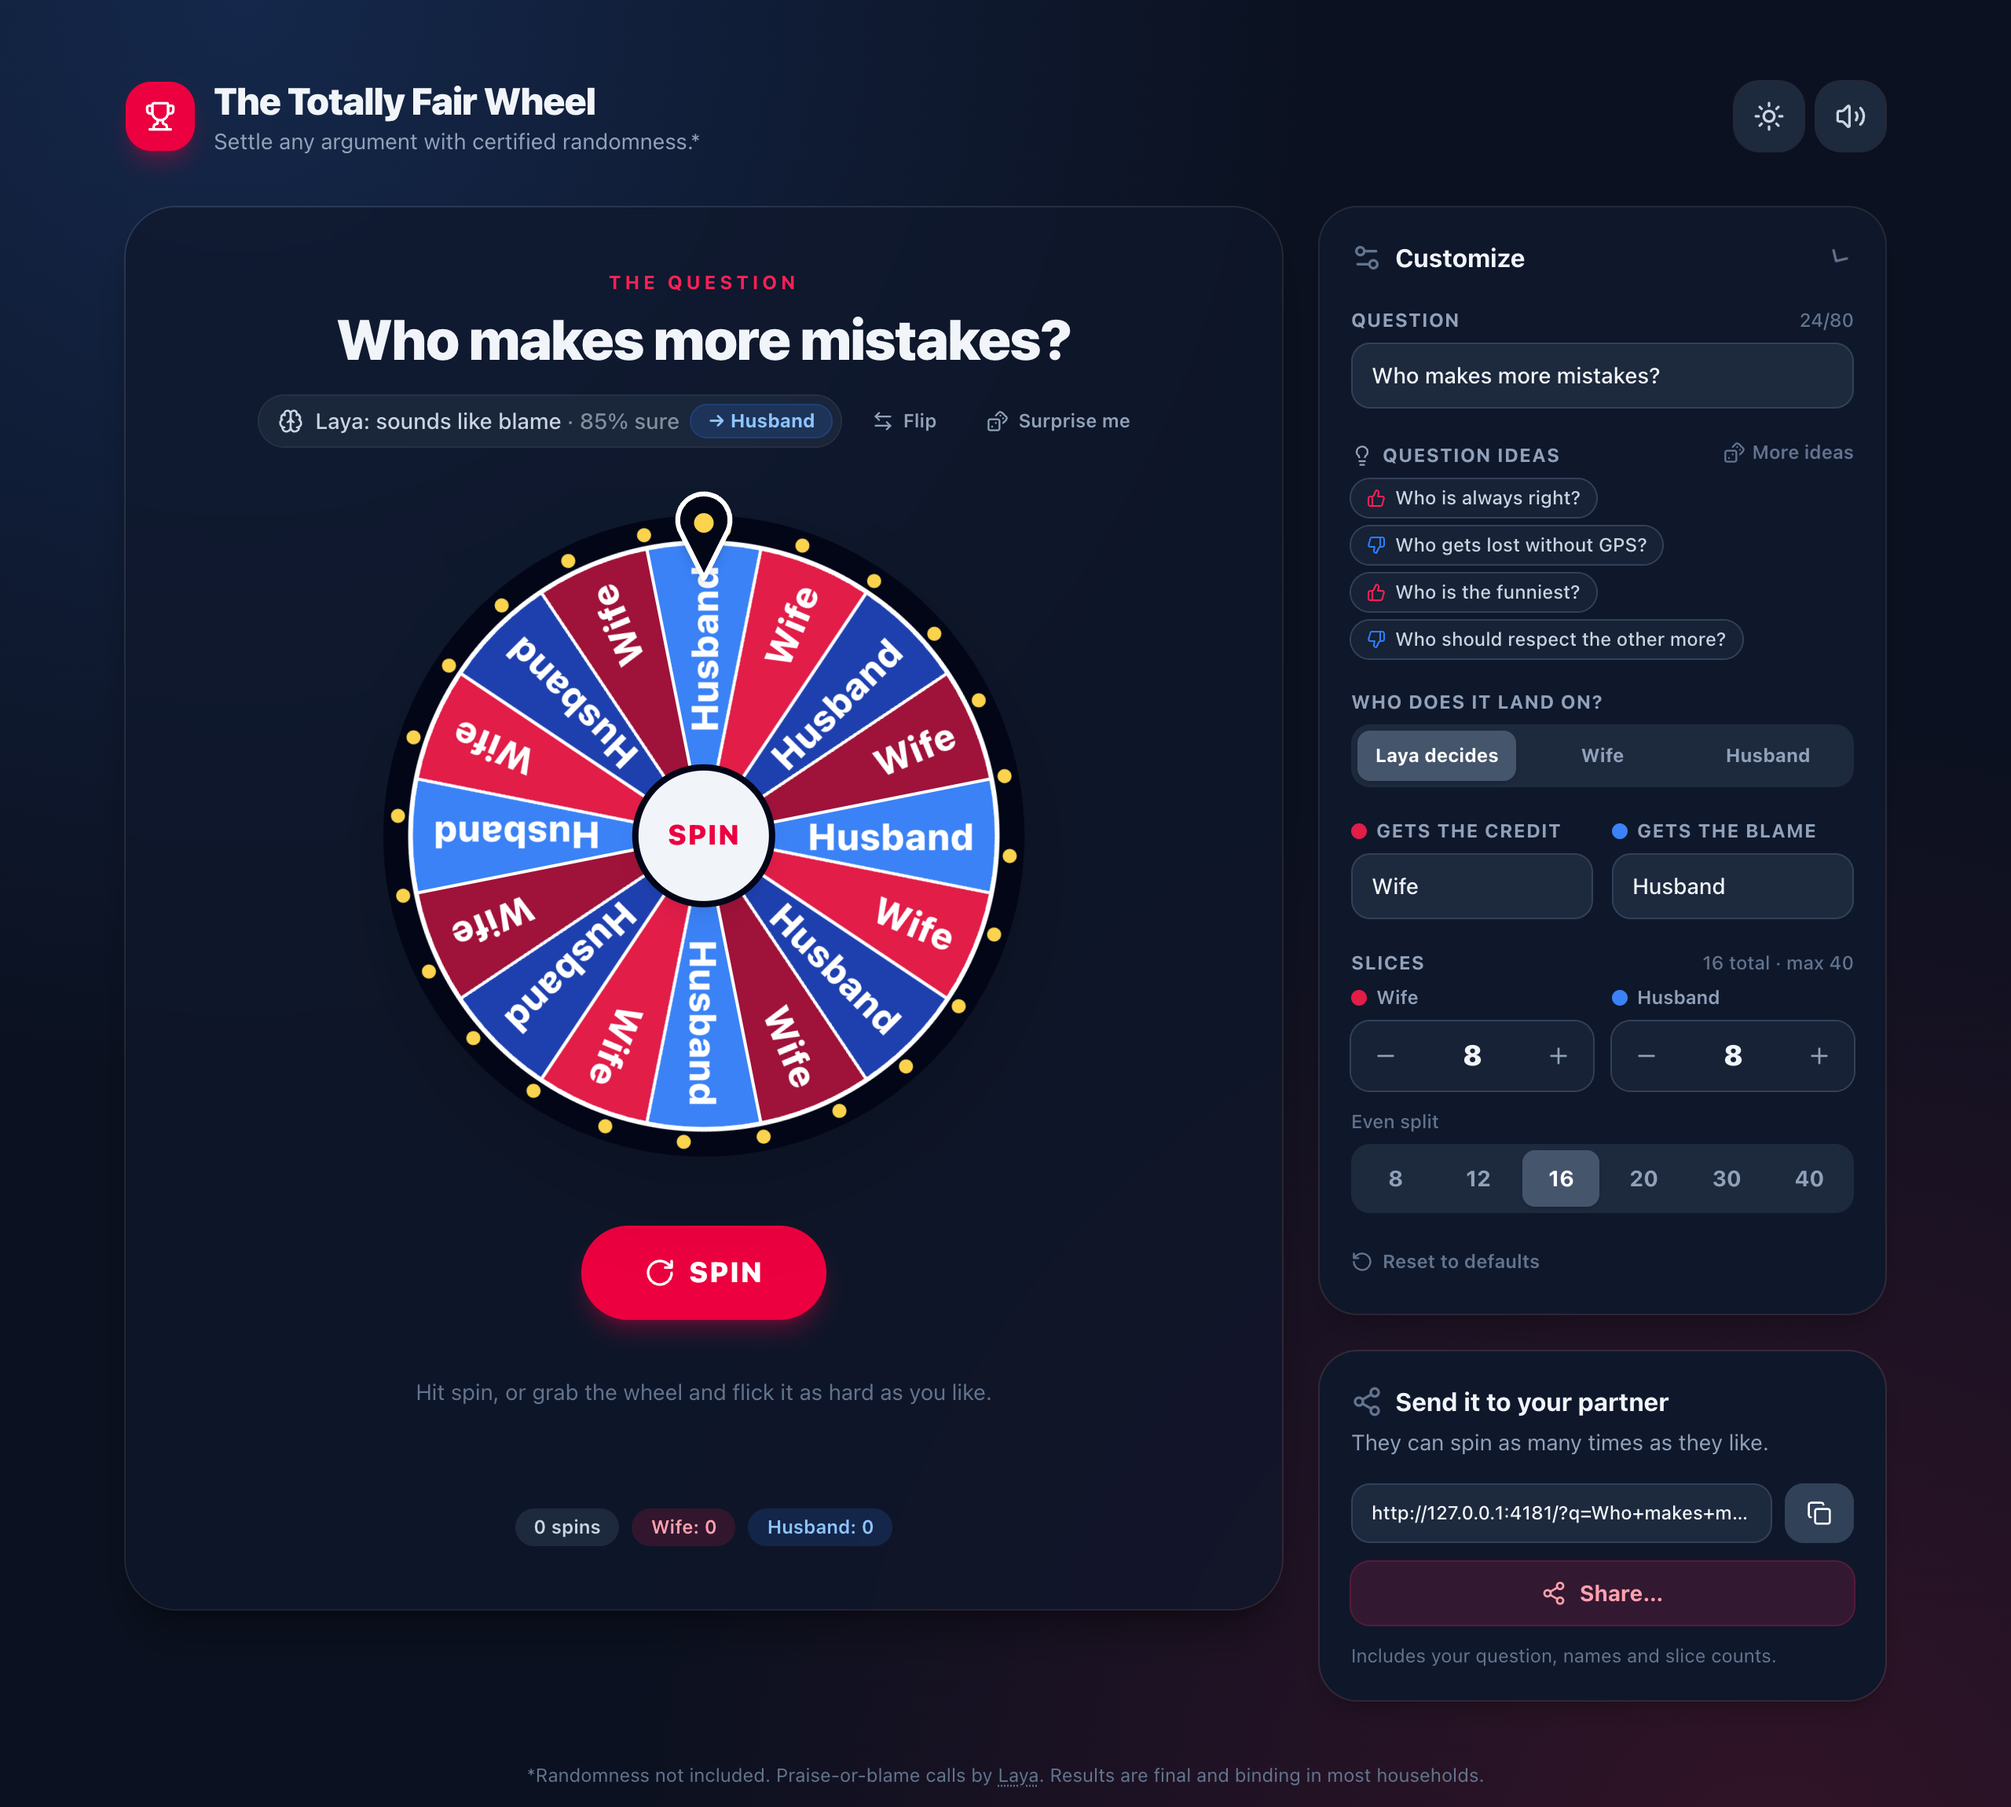
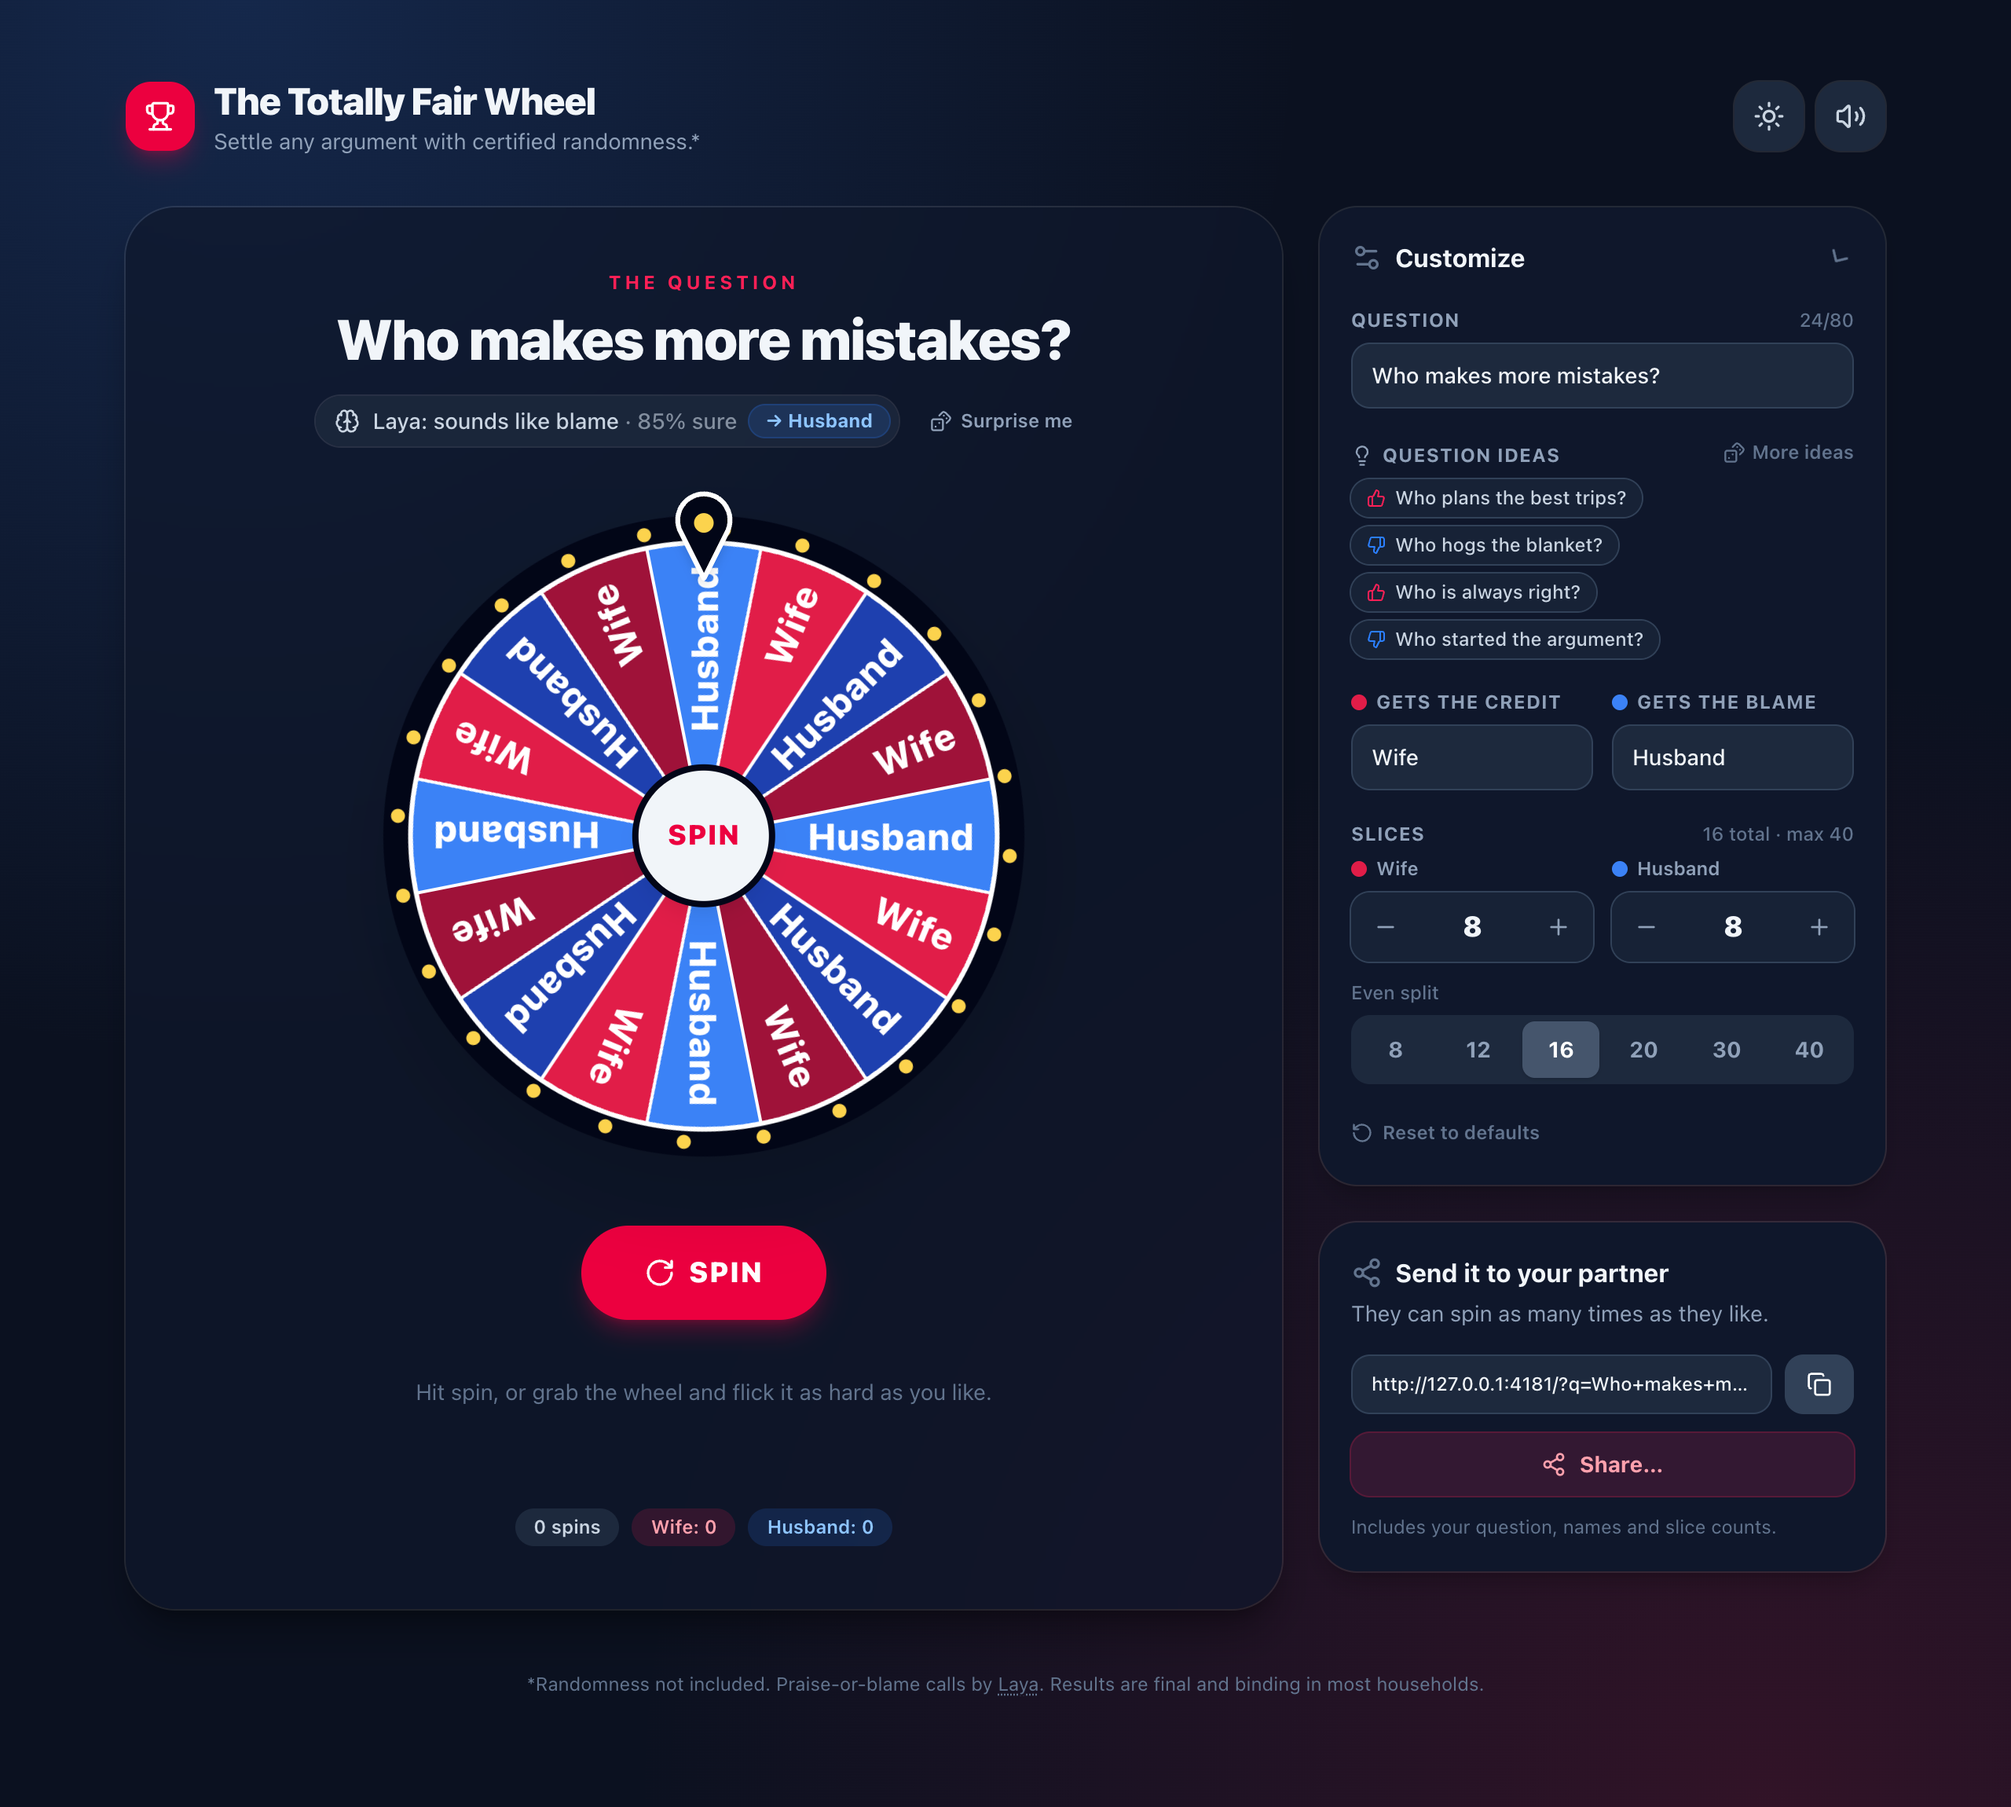
Remove every way to overrule the wheel: no Flip, no picker, no v= link
The wheel is satire and should only ever go one way: praise to the credit
person, blame to the other. Removed the "Who does it land on?" picker, the
Flip and "Let Laya decide" buttons, and the v=credit|blame share-link
setting (old links carrying it are ignored). The verdict line stays as a
read-only explanation. README and demos updated.

diff --git a/src/RiggedWheel.jsx b/src/RiggedWheel.jsx
@@ -1,14 +1,12 @@
 import { useEffect, useLayoutEffect, useMemo, useRef, useState } from 'react';
 import confetti from 'canvas-confetti';
 import {
-  ArrowLeftRight,
   BookOpen,
   Brain,
   Check,
   ChevronDown,
   Copy,
   Dices,
-  Hand,
   Lightbulb,
   LoaderCircle,
   Minus,
@@ -297,8 +295,7 @@ function wordScore(text) {
 
 // Laya decides; the word list only tips it when Laya is unsure. Without Laya,
 // the word list decides, and with no clues at all it's praise (the original joke).
-function decide({ override, layaP, words }) {
-  if (override) return { verdict: override, source: 'you' };
+function decide({ layaP, words }) {
   if (layaP != null) {
     const p = 1 / (1 + Math.exp(-(logit(clamp(layaP, 0.001, 0.999)) + RULE_WEIGHT * words)));
     const verdict = p >= 0.5 ? 'credit' : 'blame';
@@ -324,7 +321,6 @@ function readParams() {
   if (Number.isNaN(badCount)) badCount = Number.isNaN(legacyTotal) ? DEFAULTS.badCount : legacyTotal - 1;
   goodCount = clamp(goodCount, 1, MAX_SLICES - 1);
   badCount = clamp(badCount, 1, MAX_SLICES - goodCount);
-  const v = p.get('v');
 
   return {
     question: text('q', MAX_QUESTION, DEFAULTS.question),
@@ -332,7 +328,6 @@ function readParams() {
     bad: text('l', MAX_NAME, DEFAULTS.bad),
     goodCount,
     badCount,
-    override: v === 'credit' || v === 'blame' ? v : null,
     fromLink: ['q', 'w', 'l'].some((k) => p.has(k)),
   };
 }
@@ -359,7 +354,6 @@ export default function RiggedWheel() {
   const [goodCount, setGoodCount] = useState(initial.goodCount);
   const [badCount, setBadCount] = useState(initial.badCount);
   const [ideas, setIdeas] = useState(() => pickIdeas());
-  const [override, setOverride] = useState(initial.override);
   const [laya, setLaya] = useState({ status: 'idle', key: '', p: null });
   const [frozen, setFrozen] = useState(null); // decision locked for the length of a spin
   const [theme, setTheme] = useState(initialTheme);
@@ -397,7 +391,6 @@ export default function RiggedWheel() {
   const badName = bad.trim() || DEFAULTS.bad;
 
   const liveDecision = decide({
-    override,
     layaP: laya.status === 'ok' && laya.key === questionKey ? laya.p : null,
     words: wordScore(shownQuestion),
   });
@@ -406,7 +399,7 @@ export default function RiggedWheel() {
   const answerName = isCredit ? goodName : badName;
   const decoyName = isCredit ? badName : goodName;
   const answerRole = isCredit ? 'good' : 'bad';
-  const layaThinking = !override && laya.key === questionKey && laya.status === 'loading';
+  const layaThinking = laya.key === questionKey && laya.status === 'loading';
 
   const slices = useMemo(() => buildSlices(goodCount, badCount), [goodCount, badCount]);
   const slicesRef = useRef(slices);
@@ -422,9 +415,8 @@ export default function RiggedWheel() {
       nw: String(goodCount),
       nl: String(badCount),
     });
-    if (override) params.set('v', override);
     return `${window.location.origin}${window.location.pathname}?${params}`;
-  }, [shownQuestion, goodName, badName, goodCount, badCount, override]);
+  }, [shownQuestion, goodName, badName, goodCount, badCount]);
 
   useLayoutEffect(() => {
     wheelRef.current.style.transform = `rotate(${rotationRef.current}deg)`;
@@ -739,7 +731,6 @@ export default function RiggedWheel() {
 
   function askQuestion(q) {
     setQuestion(q);
-    setOverride(null);
     setResult(null);
   }
 
@@ -788,10 +779,7 @@ export default function RiggedWheel() {
 
   let verdictIcon;
   let verdictText;
-  if (decision.source === 'you') {
-    verdictIcon = <Hand className="h-4 w-4" />;
-    verdictText = <>You decided: {isCredit ? 'praise' : 'blame'}</>;
-  } else if (layaThinking) {
+  if (layaThinking) {
     verdictIcon = <LoaderCircle className="h-4 w-4 animate-spin" />;
     verdictText = <>Laya is reading the question…</>;
   } else if (decision.overruled) {
@@ -890,27 +878,6 @@ export default function RiggedWheel() {
                   → {answerName}
                 </span>
               </span>
-              <button
-                type="button"
-                disabled={spinning}
-                onClick={() => setOverride(isCredit ? 'blame' : 'credit')}
-                title="Wrong call? Send it to the other person."
-                className={`inline-flex items-center gap-1.5 rounded-full px-3 py-1.5 text-xs font-semibold transition disabled:cursor-not-allowed disabled:opacity-50 ${t.verdictBtn}`}
-              >
-                <ArrowLeftRight className="h-3.5 w-3.5" />
-                Flip
-              </button>
-              {override && (
-                <button
-                  type="button"
-                  disabled={spinning}
-                  onClick={() => setOverride(null)}
-                  className={`inline-flex items-center gap-1.5 rounded-full px-3 py-1.5 text-xs font-semibold transition disabled:cursor-not-allowed disabled:opacity-50 ${t.verdictBtn}`}
-                >
-                  <Brain className="h-3.5 w-3.5" />
-                  {LAYA_URL ? 'Let Laya decide' : 'Back to automatic'}
-                </button>
-              )}
               <button
                 type="button"
                 disabled={spinning}
@@ -1081,10 +1048,7 @@ export default function RiggedWheel() {
                       value={question}
                       maxLength={MAX_QUESTION}
                       disabled={spinning}
-                      onChange={(e) => {
-                        setQuestion(e.target.value);
-                        setOverride(null);
-                      }}
+                      onChange={(e) => setQuestion(e.target.value)}
                       placeholder={DEFAULTS.question}
                       className={inputClass}
                     />
@@ -1124,31 +1088,6 @@ export default function RiggedWheel() {
                         >
                           {kind === 'credit' ? <ThumbsUp className="h-3 w-3 text-rose-500" /> : <ThumbsDown className="h-3 w-3 text-blue-500" />}
                           {q}
-                        </button>
-                      ))}
-                    </div>
-                  </div>
-
-                  <div>
-                    <SectionLabel t={t}>Who does it land on?</SectionLabel>
-                    <div role="radiogroup" aria-label="Who the wheel lands on" className={`grid grid-cols-3 gap-1 rounded-xl p-1 ${t.seg}`}>
-                      {[
-                        [null, LAYA_URL ? 'Laya decides' : 'Automatic'],
-                        ['credit', goodName],
-                        ['blame', badName],
-                      ].map(([value, label]) => (
-                        <button
-                          key={label}
-                          type="button"
-                          role="radio"
-                          aria-checked={override === value}
-                          disabled={spinning}
-                          onClick={() => setOverride(value)}
-                          className={`truncate rounded-lg px-1 py-2 text-xs font-bold transition disabled:cursor-not-allowed ${
-                            override === value ? t.segOn : t.segOff
-                          }`}
-                        >
-                          {label}
                         </button>
                       ))}
                     </div>

diff --git a/README.md b/README.md
@@ -61,7 +61,7 @@ Or [write your own](https://rehmanalimomin.github.io/rigged-wheel/). The app sho
 ## ✨ Features
 
 - 🧠 **Laya reads the question.** [Laya](https://huggingface.co/convaiinnovations/laya) is a small AI model that sorts text into categories. It decides whether being the answer is praise or blame, and the wheel shows its call and how sure it is: *"Laya: sounds like blame · 85% sure → Husband"*.
-- ↔ **Flip** sends a question to the other person when you disagree with Laya. You can also pick a person yourself under **Who does it land on?**
+- 🚫 **No appeals.** There's no way to overrule the wheel or pick the answer yourself. Praise always goes to Wife, and blame always goes to Husband.
 - 💡 **24 question ideas**, half praise and half blame, shown four at a time, plus 🎲 **Surprise me**.
 - ⏳ **Spin waits for Laya.** If you hit Spin while Laya is still reading a new question, the button says *Asking Laya…* and the wheel spins once Laya answers (it waits 2.5 s at most). That way the landing always matches the verdict shown above the wheel.
 - 🎡 **Rigged, but it looks fair.** It picks where to stop first, then spins 5–7 full turns to get there, slowing down over 4–5 seconds.
@@ -106,7 +106,7 @@ We tested 67 labelled questions: the ones in the app, plus others, plus 21 "who 
 | Word list alone | 64 / 67 |
 | **Both together** | **66 / 67** |
 
-The one it still misses is "Who keeps the house together?". The word list was written with these questions in view, so expect it to do a bit worse on questions nobody has tried yet. That's what **Flip** is for.
+The one it still misses is "Who keeps the house together?". The word list was written with these questions in view, so expect it to do a bit worse on questions nobody has tried yet.
 
 </details>
 
@@ -134,7 +134,6 @@ Each frame moves along `from → to` using `1 − (1 − t)⁴`. That curve star
 | `q` | The question | `Who is always right?` |
 | `w` / `l` | Who gets the credit / who gets the blame | `Wife` / `Husband` |
 | `nw` / `nl` | Number of slices for the credit / blame person (up to 40 in total) | `8` / `8` |
-| `v` | `credit` or `blame` fixes the result instead of asking Laya | Laya decides |
 
 ## 🖥 Hosting Laya
 
